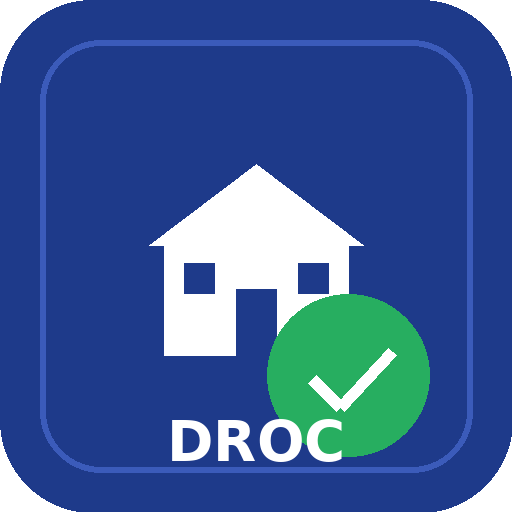
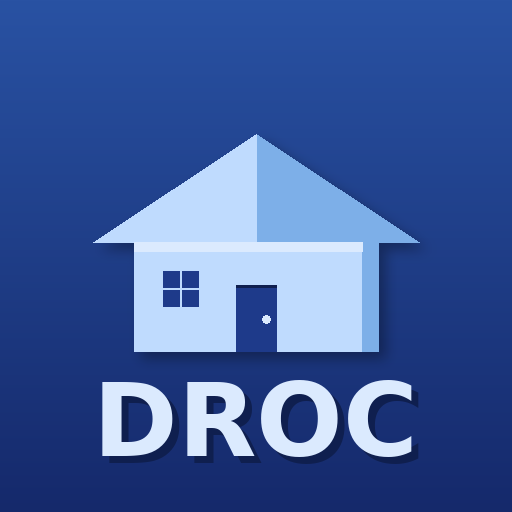
Add files via upload

diff --git a/app.js b/app.js
@@ -5,7 +5,7 @@
 
 // ---- CONFIGURACIÓN ----
 // IMPORTANTE: sustituye por tu URL de Apps Script al desplegar
-const APPS_SCRIPT_URL = 'https://script.google.com/macros/s/AKfycbxLzzpp5K4FSS61fNveEFQURsp0_pcTwk4DMsVgXD3iVds2H8JLWwQsUp1hlUalMI-X/exec';
+const APPS_SCRIPT_URL = 'TU_URL_APPS_SCRIPT_AQUI';
 
 // Tamaño máximo del lado largo de las fotos (px) al redimensionar
 const FOTO_MAX_LADO = 1600;
@@ -340,19 +340,8 @@ async function crearYEmpezarVisita() {
 // ======================================================
 function abrirVisita(idx) {
   visitaActual = visitas[idx];
-
-  // Aviso si el expediente no tiene carpeta Drive asignada todavía
-  if (!visitaActual.folderId) {
-    if (!confirm(
-      'Este expediente todavía no tiene carpeta Drive asignada.\n\n' +
-      'Puedes hacer la visita igualmente, pero al guardar habrá un error.\n' +
-      'Tienes que asignar la carpeta primero desde la app de gestión.\n\n' +
-      '¿Quieres abrirla de todas formas?'
-    )) {
-      return;
-    }
-  }
-
+  // Si no tiene carpeta asignada, al guardar el backend creará automáticamente
+  // una carpeta provisional en _PENDIENTES_ASIGNAR/ (sin avisos molestos).
   resetDatosVisita();
   rellenarCabecera();
   construirChecklist();

diff --git a/index.html b/index.html
@@ -13,7 +13,7 @@
   <meta name="apple-mobile-web-app-status-bar-style" content="default">
   <meta name="apple-mobile-web-app-title" content="DROC Visita">
   <link rel="apple-touch-icon" href="icon-192.png">
-  <link rel="stylesheet" href="style.css?v=8">
+  <link rel="stylesheet" href="style.css?v=10">
 </head>
 <body>
 
@@ -232,6 +232,6 @@
   </div>
 </div>
 
-<script src="app.js?v=8"></script>
+<script src="app.js?v=10"></script>
 </body>
 </html>

diff --git a/sw.js b/sw.js
@@ -1,7 +1,7 @@
 // SW — DROC Visita v3
 // IMPORTANTE: cachea solo recursos estáticos (CSS, iconos, manifest)
 // El HTML y JS NUNCA se cachean para que los cambios se apliquen al instante
-const CACHE = 'droc-visita-v8';
+const CACHE = 'droc-visita-v10';
 const FILES_ESTATICOS = [
   '/droc-visita/style.css',
   '/droc-visita/manifest.json',